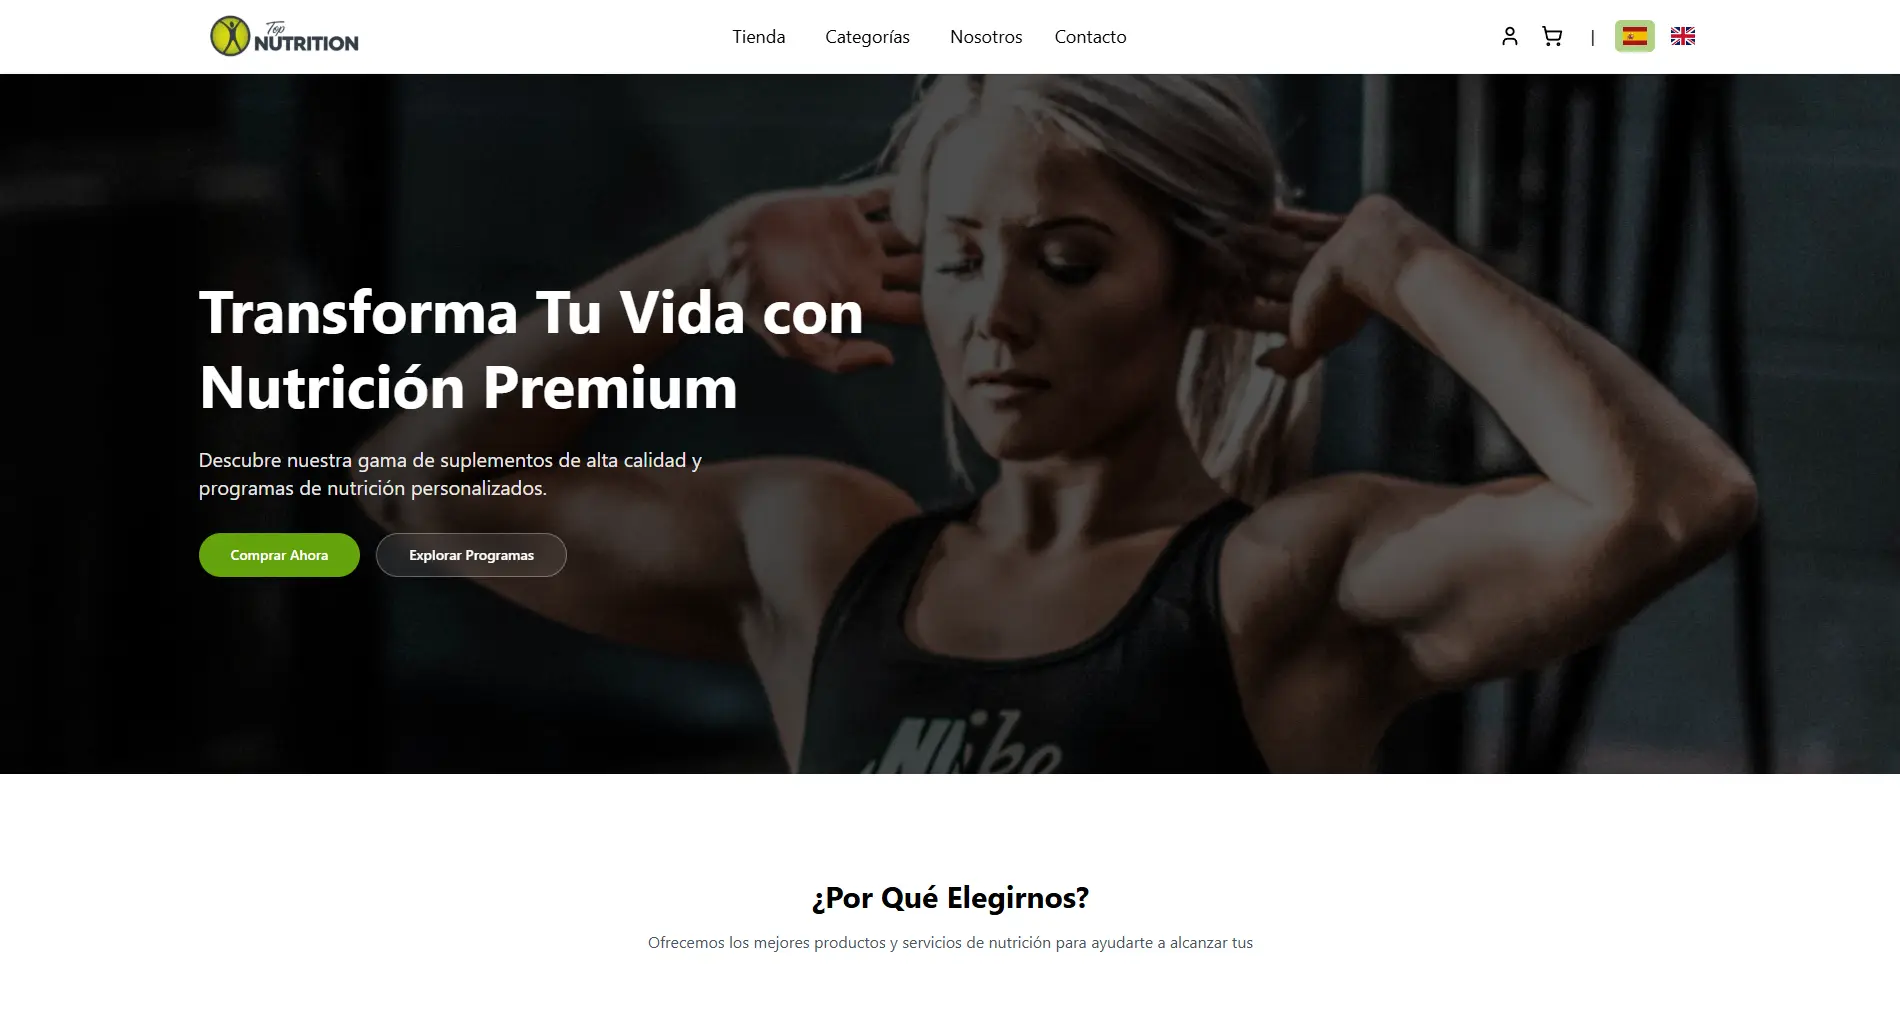
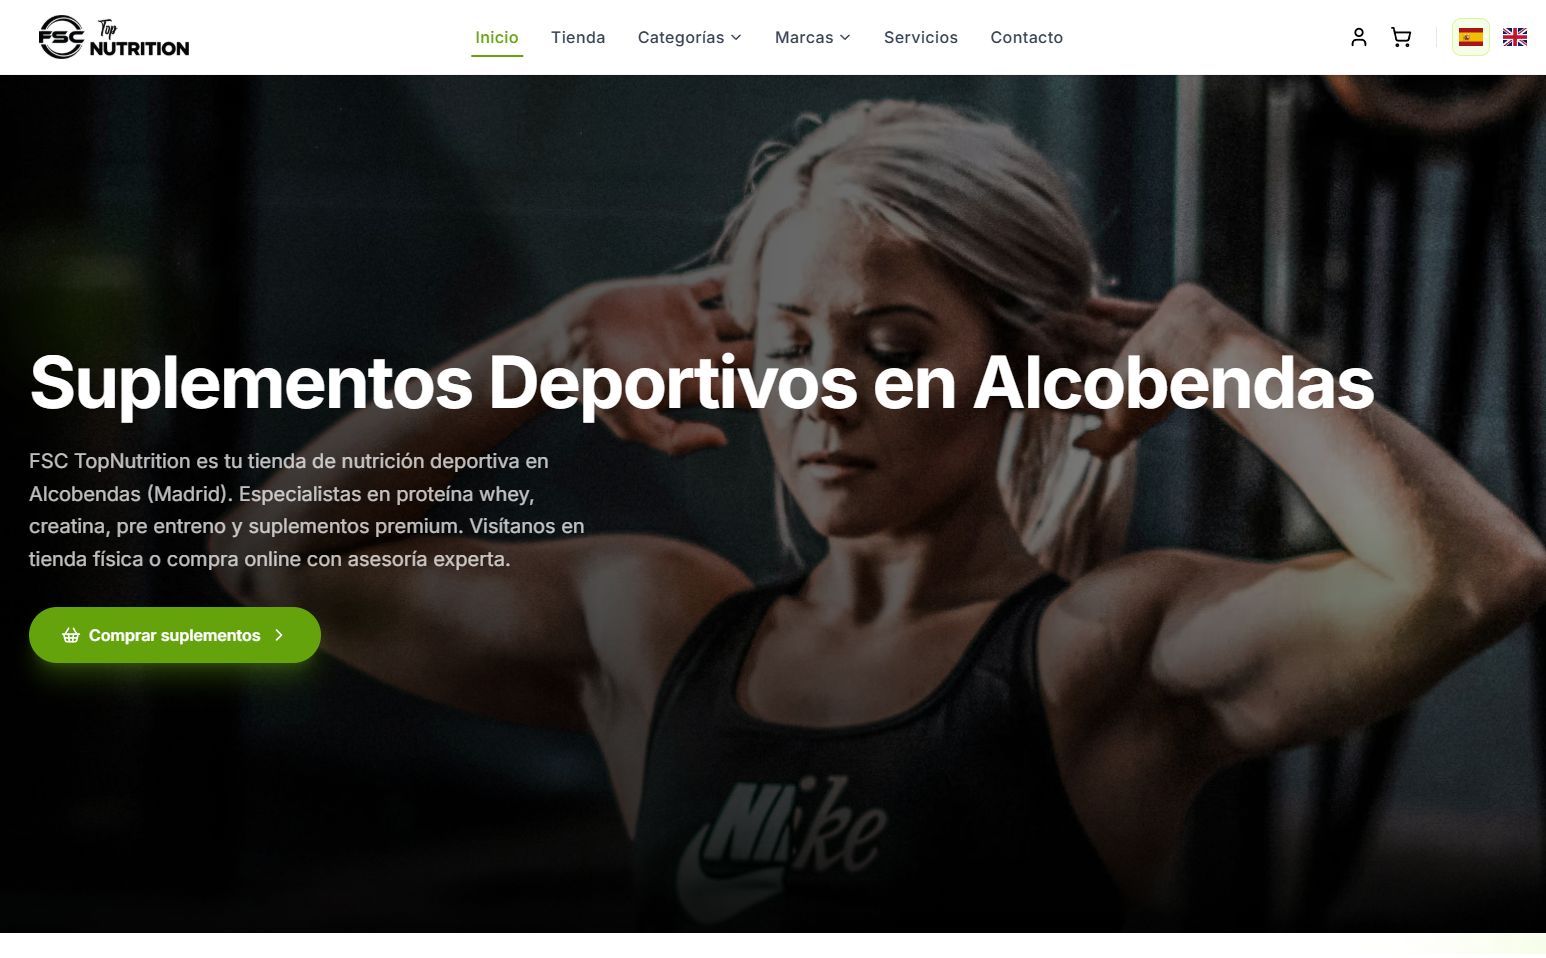
Refactor code structure for improved readability and maintainability

diff --git a/src/components/Cards/CollaborationCard.tsx b/src/components/Cards/CollaborationCard.tsx
@@ -1,18 +1,23 @@
 import React from "react";
 import { motion } from "framer-motion";
-import { FaAward, FaUsers, FaCalendarAlt } from "../../constants/icons";
+import {
+  FaAward,
+  FaUsers,
+  FaCalendarAlt,
+  FaGlobe,
+} from "../../constants/icons";
 import { useTranslation } from "react-i18next";
 import { CollaborationProps } from "../../types/collaboration";
 
 const CollaborationCard: React.FC<{
   collaboration: CollaborationProps;
   index: number;
-}> = ({ collaboration, index }) => {
+}> = ({ collaboration }) => {
   const { t, i18n } = useTranslation();
-  const currentLanguage = i18n.language as 'en' | 'es' | 'it' | 'de' | 'fr';
+  const currentLanguage = i18n.language as "en" | "es" | "it" | "de" | "fr";
 
   const getLocalizedContent = <T,>(content: Record<string, T>): T => {
-    return content[currentLanguage] || content['en'];
+    return content[currentLanguage] || content["en"];
   };
 
   const achievements = getLocalizedContent(collaboration.achievements);
@@ -61,6 +66,21 @@ const CollaborationCard: React.FC<{
           <FaUsers className="text-sage text-sm flex-shrink-0" />
           <span>{getLocalizedContent(collaboration.teamSize)}</span>
         </div>
+        {collaboration.website && (
+          <a
+            href={collaboration.website}
+            target="_blank"
+            rel="noopener noreferrer"
+            className="flex items-center gap-1.5 text-sm text-sage hover:text-timberwolf transition-colors duration-200"
+          >
+            <FaGlobe className="text-sm flex-shrink-0" />
+            <span>
+              {collaboration.website
+                .replace(/^https?:\/\//, "")
+                .replace(/\/$/, "")}
+            </span>
+          </a>
+        )}
       </div>
 
       <div className="px-4 sm:px-5 py-2">
@@ -72,7 +92,9 @@ const CollaborationCard: React.FC<{
       <div className="px-4 sm:px-5 py-2 border-t border-sage/20">
         <div className="flex items-center gap-1.5 mb-1.5">
           <FaAward className="text-sage text-sm" />
-          <span className="text-sage text-sm font-medium">{t('experience.achievements')}</span>
+          <span className="text-sage text-sm font-medium">
+            {t("experience.achievements")}
+          </span>
         </div>
         <ul className="space-y-1">
           {achievements.map((achievement, i) => (

diff --git a/src/components/Projects/index.tsx b/src/components/Projects/index.tsx
@@ -1,7 +1,15 @@
 import { motion } from "framer-motion";
 import ProjectCard from "../Cards/ProjectCard";
-import { personalProjects } from "../../constants/projects";
+import { personalProjects, freelanceProjects } from "../../constants/projects";
 import { useTranslation } from "react-i18next";
+
+const gridVariants = {
+  hidden: { opacity: 0 },
+  visible: {
+    opacity: 1,
+    transition: { staggerChildren: 0.08, delayChildren: 0.2 },
+  },
+};
 
 const Projects: React.FC = () => {
   const { t } = useTranslation();
@@ -18,20 +26,38 @@ const Projects: React.FC = () => {
           {t('projects.title')}
         </motion.h2>
 
+        <motion.h3
+          initial={{ opacity: 0, x: -20 }}
+          animate={{ opacity: 1, x: 0 }}
+          transition={{ duration: 0.4, delay: 0.1 }}
+          className="text-xl font-semibold text-sage mb-4"
+        >
+          {t('projects.freelance')}
+        </motion.h3>
         <motion.div
-          className="grid grid-cols-1 sm:grid-cols-2 md:grid-cols-3 lg:grid-cols-4 xl:grid-cols-5 gap-6"
+          className="grid grid-cols-1 sm:grid-cols-2 gap-6 mb-12"
           initial="hidden"
           animate="visible"
-          variants={{
-            hidden: { opacity: 0 },
-            visible: {
-              opacity: 1,
-              transition: {
-                staggerChildren: 0.08,
-                delayChildren: 0.2,
-              },
-            },
-          }}
+          variants={gridVariants}
+        >
+          {freelanceProjects.map((project, index) => (
+            <ProjectCard key={project.title} project={project} index={index} />
+          ))}
+        </motion.div>
+
+        <motion.h3
+          initial={{ opacity: 0, x: -20 }}
+          animate={{ opacity: 1, x: 0 }}
+          transition={{ duration: 0.4, delay: 0.2 }}
+          className="text-xl font-semibold text-sage mb-4"
+        >
+          {t('projects.personal')}
+        </motion.h3>
+        <motion.div
+          className="grid grid-cols-1 sm:grid-cols-2 md:grid-cols-3 lg:grid-cols-4 gap-6"
+          initial="hidden"
+          animate="visible"
+          variants={gridVariants}
         >
           {personalProjects.map((project, index) => (
             <ProjectCard key={project.title} project={project} index={index} />

diff --git a/src/components/Cards/ProjectCard.tsx b/src/components/Cards/ProjectCard.tsx
@@ -16,7 +16,7 @@ const ProjectCard: React.FC<ProjectCardProps> = ({ project, index }) => {
       whileHover={{ scale: 1.03 }}
       className="bg-brunswick-green rounded-lg shadow-lg overflow-hidden flex flex-col group transition-all duration-200 ease-in-out"
     >
-      <div className={`relative pt-[60%] overflow-hidden ${project.isProfessional ? 'bg-white' : ''}`}>
+      <div className="relative pt-[60%] overflow-hidden">
         <motion.a
           href={project.live}
           target="_blank"
@@ -26,7 +26,7 @@ const ProjectCard: React.FC<ProjectCardProps> = ({ project, index }) => {
           <motion.img
             src={project.image}
             alt={project.title}
-            className={`absolute top-0 left-0 w-full h-full transition-transform duration-300 group-hover:scale-105 shadow-[inset_0_-4px_6px_rgba(0,0,0,0.1)] ${project.isProfessional ? 'object-contain p-4' : 'object-cover'}`}
+            className="absolute top-0 left-0 w-full h-full object-cover transition-transform duration-300 group-hover:scale-105 shadow-[inset_0_-4px_6px_rgba(0,0,0,0.1)]"
           />
           <div className="absolute inset-0 bg-black bg-opacity-40 opacity-0 hover:opacity-100 transition-opacity duration-300 flex items-center justify-center">
             <span className="text-white text-lg font-semibold">{t('projects.viewProject')}</span>

diff --git a/src/constants/projects.ts b/src/constants/projects.ts
@@ -10,20 +10,12 @@ export const personalProjects: ProjectProps[] = [
     category: "Full-Stack",
   },
   {
-    title: "CryptoTracker (In Progress)",
+    title: "CryptoTracker",
     image: "/projects/crypto.webp",
     github: "https://github.com/SMG-web-dev/CryptoTracker",
     live: "https://smg-dev-criptos.netlify.app/",
     technologies: ["React", "TypeScript", "Tailwind"],
     category: "Frontend",
-  },
-  {
-    title: "FSC TopNutrition (In Progress)",
-    image: "/projects/topnutrition.webp",
-    github: null,
-    live: "https://fsctopnutrition.es",
-    technologies: ["NextJS", "Tailwind"],
-    category: "Full-Stack",
   },
   {
     title: "BootLearn",
@@ -43,3 +35,23 @@ export const personalProjects: ProjectProps[] = [
   },
 ];
 
+export const freelanceProjects: ProjectProps[] = [
+  {
+    title: "FSC TopNutrition",
+    image: "/projects/topnutrition.webp",
+    github: null,
+    live: "https://fsctopnutrition.es",
+    technologies: ["NextJS", "TypeScript", "Tailwind", "Supabase"],
+    category: "Full-Stack",
+    isProfessional: true,
+  },
+  {
+    title: "Nuevo Estilo Unisex",
+    image: "/projects/pelu.webp",
+    github: null,
+    live: "https://nuevoestilounisex.es",
+    technologies: ["NextJS", "TypeScript", "Tailwind", "CSS"],
+    category: "Frontend",
+    isProfessional: true,
+  },
+];

diff --git a/src/constants/collaborations.ts b/src/constants/collaborations.ts
@@ -64,6 +64,7 @@ export const collaborations: CollaborationProps[] = [
       fr: "Équipe collaborative",
     },
     image: "/exp/DltCode.webp",
+    website: "https://dltcode.es/",
   },
   {
     company: "FSC TopNutrition",
@@ -128,6 +129,7 @@ export const collaborations: CollaborationProps[] = [
       fr: "Développeur solo",
     },
     image: "/exp/FSC.webp",
+    website: "https://fsctopnutrition.es",
   },
   {
     company: "NewLine Events (RealMadrid CF)",
@@ -187,6 +189,7 @@ export const collaborations: CollaborationProps[] = [
       fr: "Équipe d'événements",
     },
     image: "/exp/NewLine.webp",
+    website: "https://correcta.es/",
   },
   {
     company: "Coop. soc. IL SOGNO arl",
@@ -246,5 +249,6 @@ export const collaborations: CollaborationProps[] = [
       fr: "Petite équipe (Rome)",
     },
     image: "/exp/GentiEPaesi.webp",
+    website: "https://gentiepaesi.com/",
   },
 ];

diff --git a/src/types/collaboration.d.ts b/src/types/collaboration.d.ts
@@ -37,4 +37,5 @@ export interface CollaborationProps {
     fr: string;
   };
   image: string;
+  website?: string;
 }
